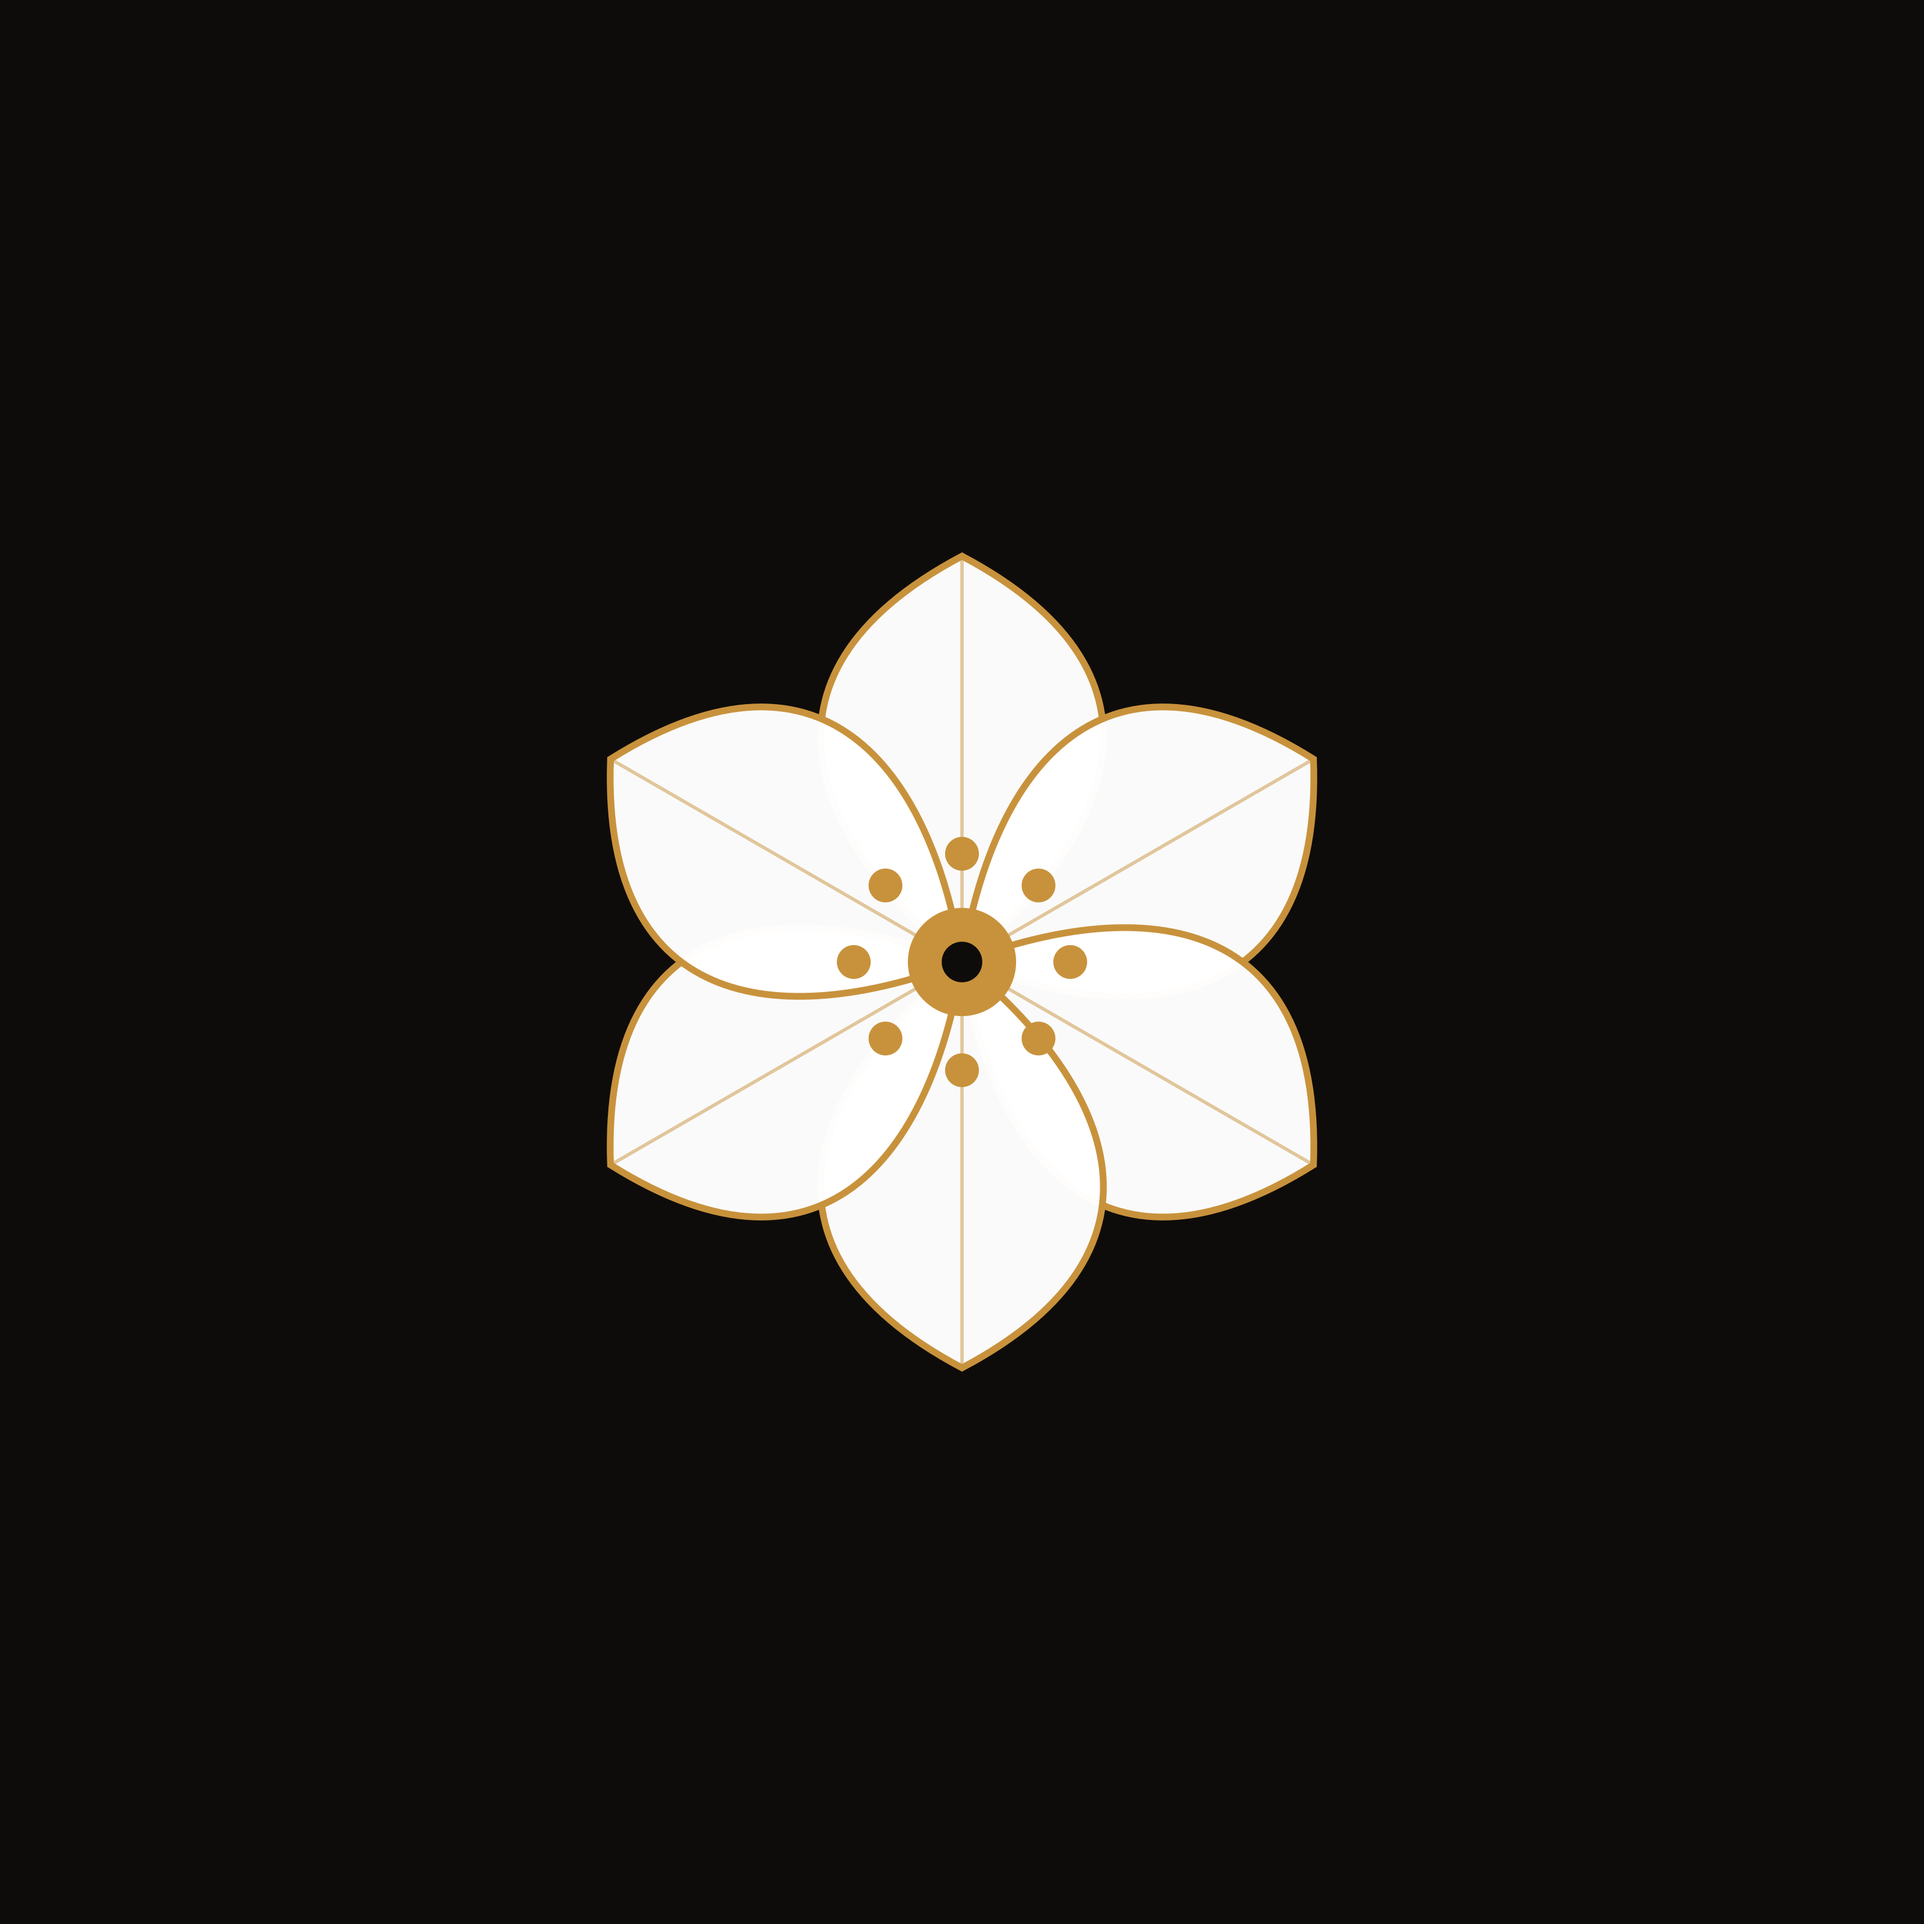
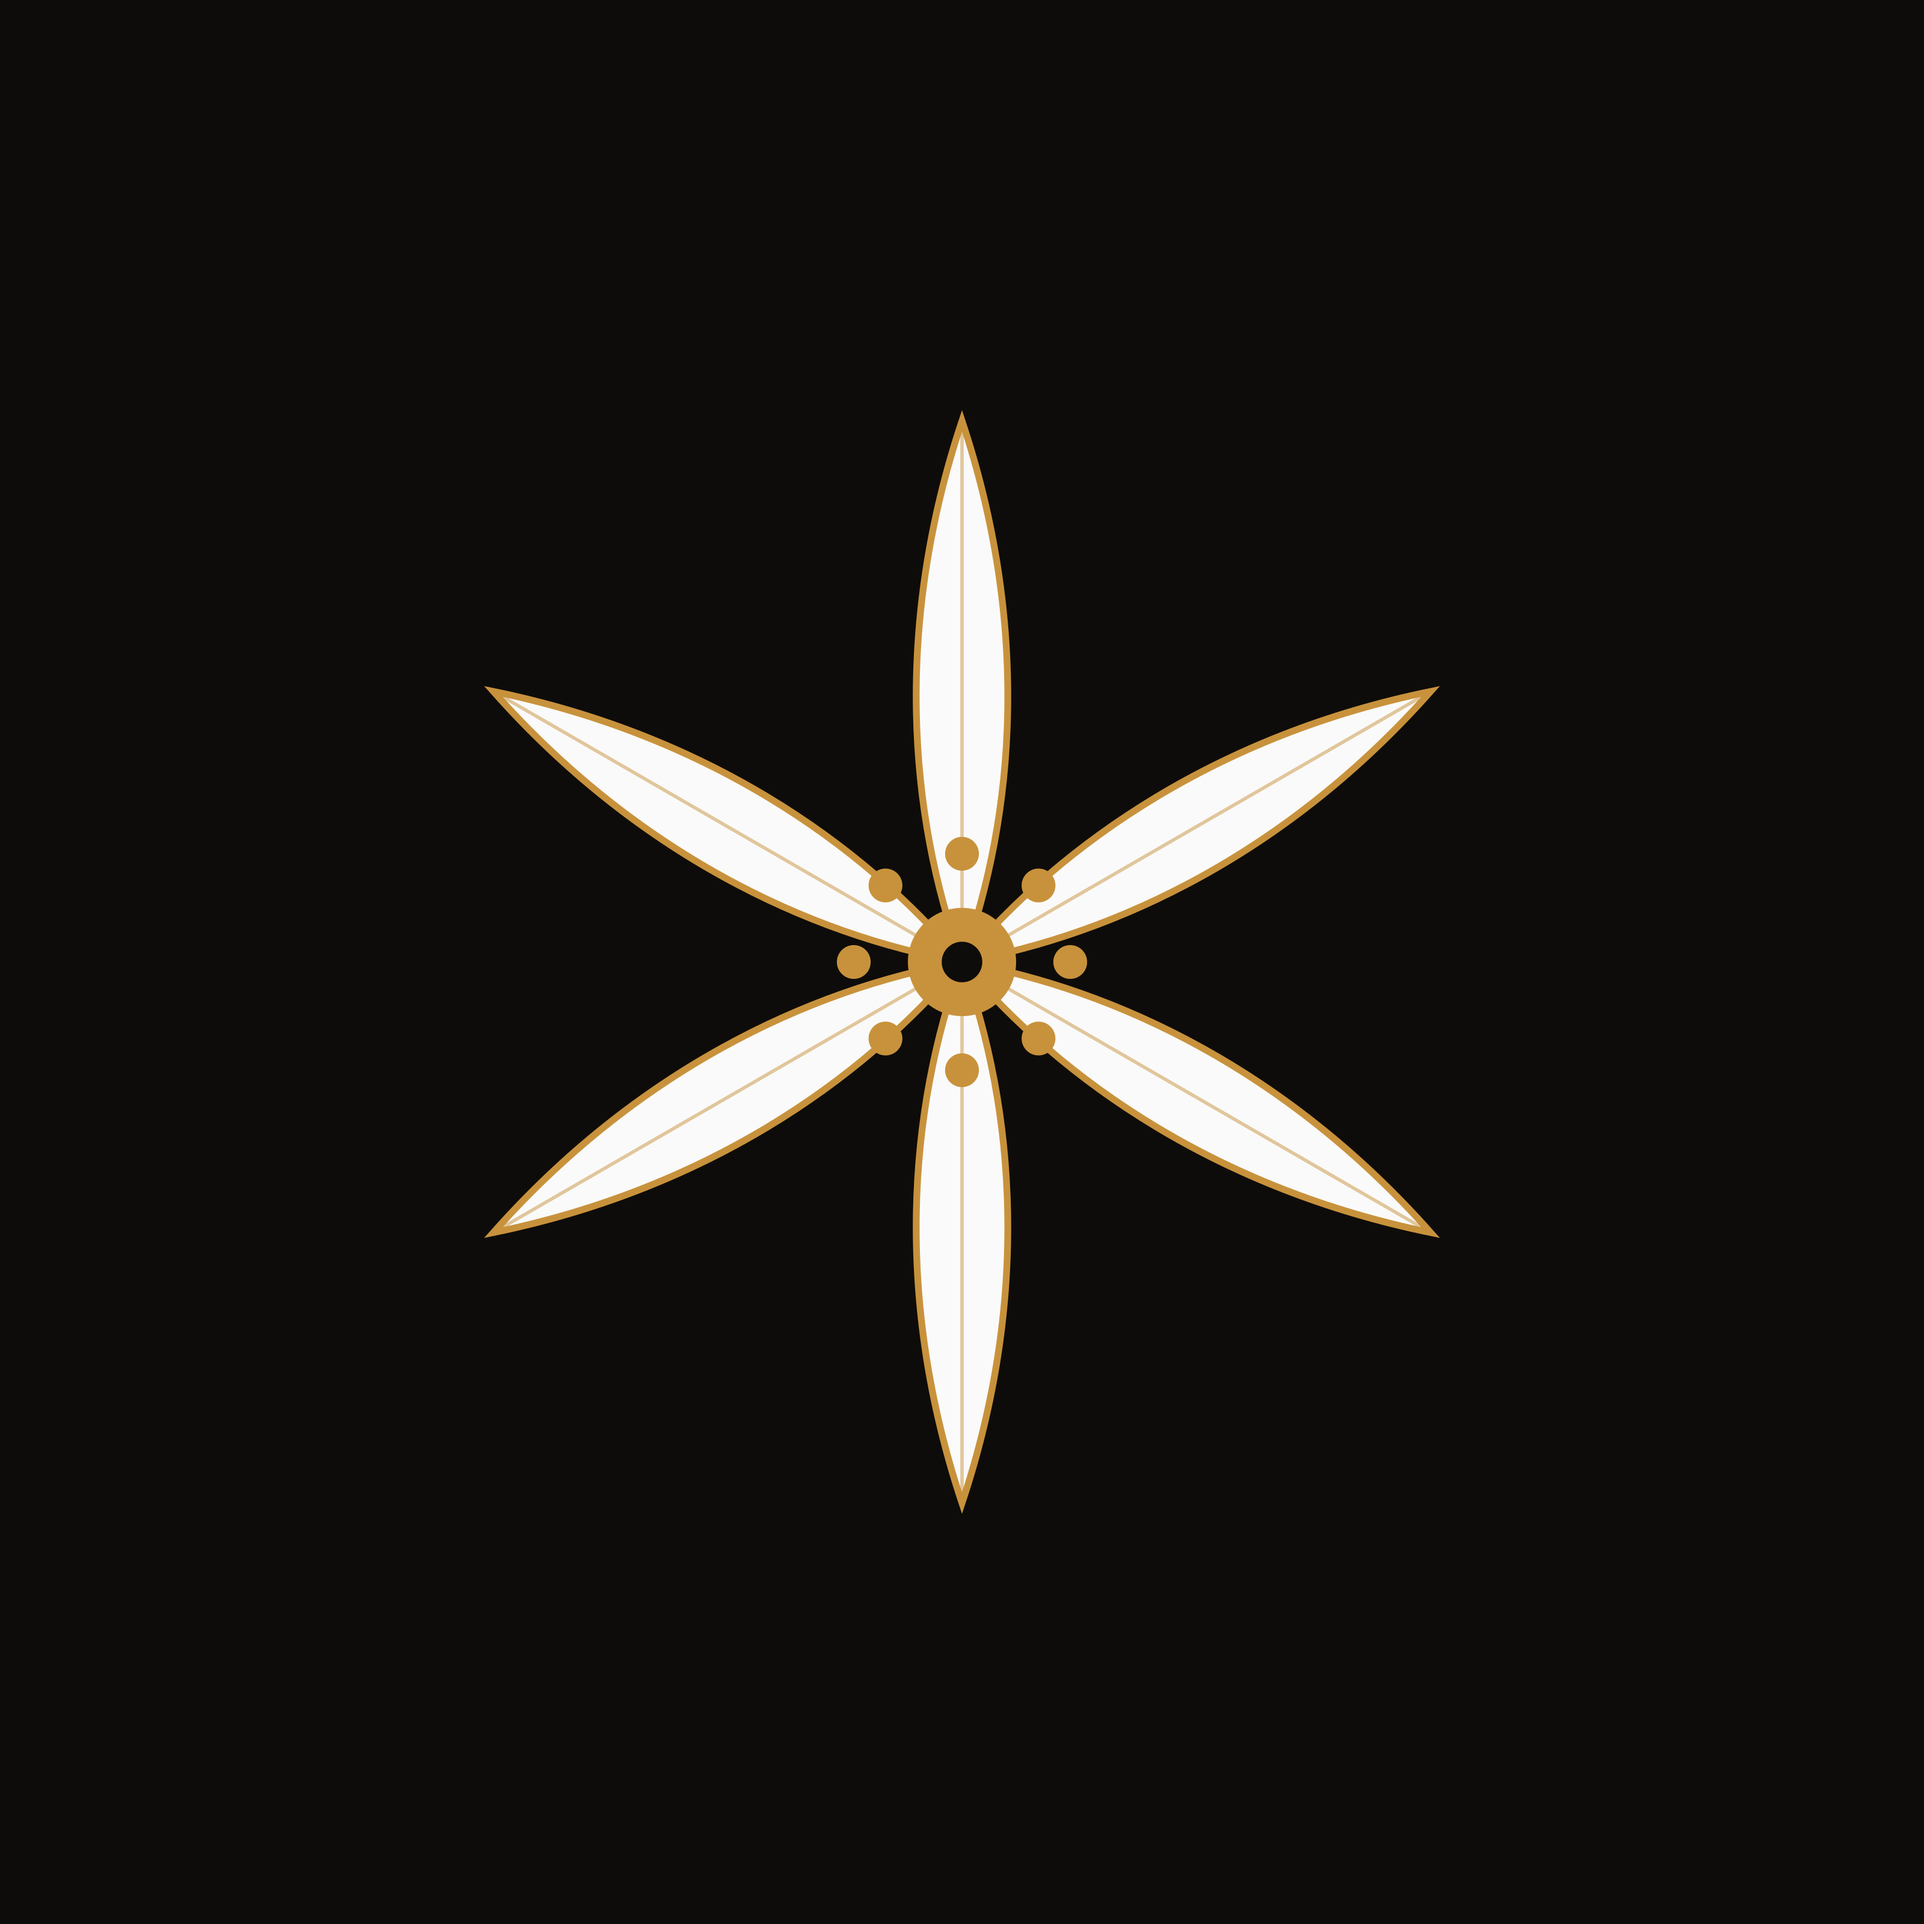
fix: redesign flower petals to match Coffea arabica blossom — long narrow shape

Changed region(s): [[0.25, 0.2188, 0.75, 0.7812]]

diff --git a/components/CoffeeFlower.tsx b/components/CoffeeFlower.tsx
@@ -52,8 +52,8 @@ export default function CoffeeFlower({
   const gold = Colors.primary;
 
   // Narrowed 30% horizontally — avoids hexagram silhouette at small sizes
-  const petalPath = "M100,100 C121,83 134,58 100,40 C66,58 79,83 100,100 Z";
-  const veinPath = "M100,100 L100,40"; // Vein extends to petal tip
+  const petalPath = "M100,100 C108,78 110,50 100,20 C90,50 92,78 100,100 Z";
+  const veinPath = "M100,100 L100,20"; // Vein extends to petal tip
   
   return (
     <View style={[styles.container, { width: size, height: size, opacity }]}>

diff --git a/scripts/generate-icon.js b/scripts/generate-icon.js
@@ -17,8 +17,8 @@ const GOLD_COLOR = '#C8923C';
 
 function getFlowerSvg(size) {
   const scale = size / 200;
-  const petalPath = "M100,100 C121,83 134,58 100,40 C66,58 79,83 100,100 Z";
-  const veinPath = "M100,100 L100,40";
+  const petalPath = "M100,100 C108,78 110,50 100,20 C90,50 92,78 100,100 Z";
+  const veinPath = "M100,100 L100,20";
   
   let content = '';
   
